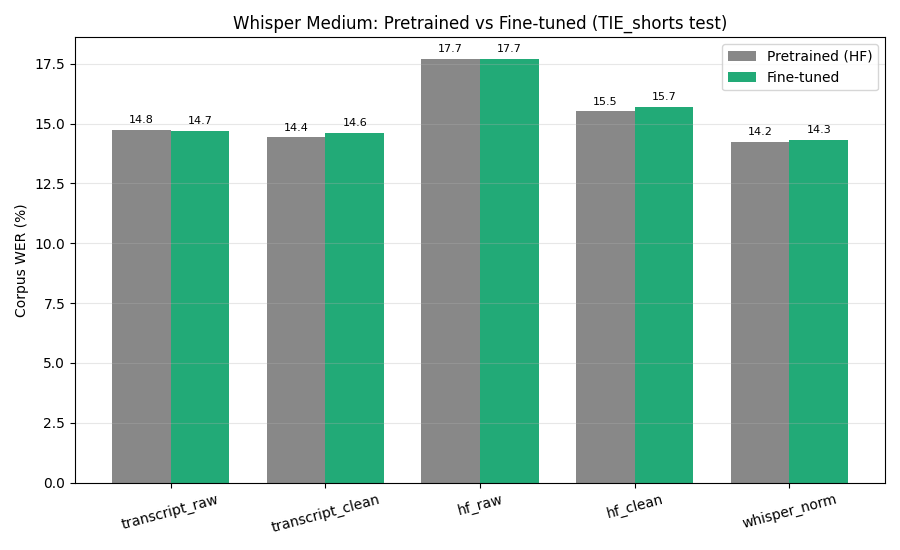
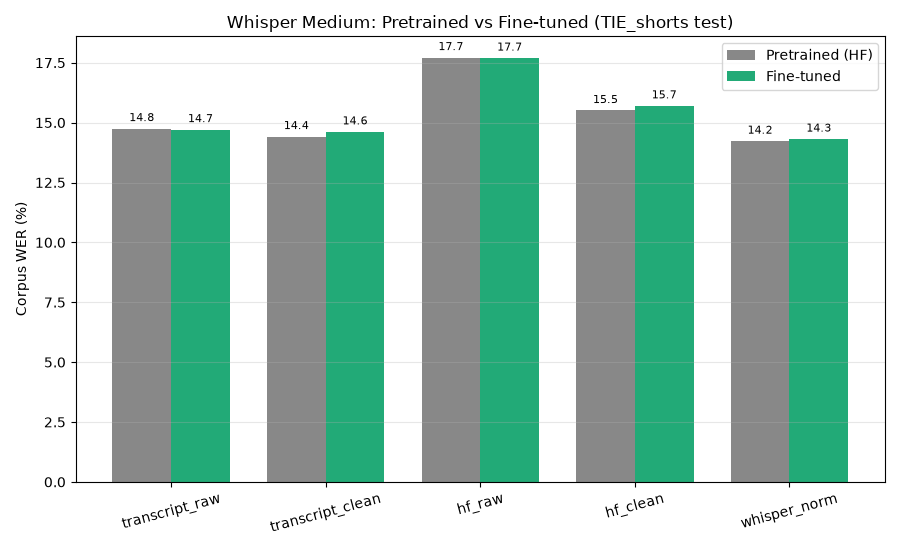
Fix MDE narrative + add Holm correction to multi-seed FT report
The 3-seed disjoint FT report always emitted a 'not significant, null result'
narrative regardless of the data, and the per-seed significance markers had no
multiplicity correction. With seed 42 now scored, its CI excludes 0 (p=0.016,
Holm-corrected p=0.048) while seeds 43/44 don't - a real, still-significant
finding after correction, not a clean null. The report now branches on the
Holm-corrected outcome and states the mixed result accurately.

diff --git a/analysis/compare_finetune.py b/analysis/compare_finetune.py
@@ -27,7 +27,7 @@ sys.path.insert(0, os.path.join(os.path.dirname(__file__), ".."))
 from utils.wer_compute import compute_corpus_wer
 from utils.registry import ALL_MODES as MODES, PRIMARY_MODE
 from utils.io_helpers import stage2_dir, analysis_dir
-from analysis.statistics import _clip_errors
+from analysis.statistics import _clip_errors, _holm
 
 # The fine-tuning study is TIE-only (Svarah is eval-only, not fine-tunable).
 DATASET = "tie"
@@ -187,11 +187,12 @@ if disjoint_present:
         "adaptation. Run with multiple training seeds: a null claim from one seed would "
         "be indistinguishable from seed variance.",
         "",
-        f"| Seed | WER (`{PRIMARY_MODE}`) | Δ vs pretrained (paired, speaker-resampled) | 95% CI | p |",
-        "|------|:----:|:----:|:----:|:----:|",
+        f"| Seed | WER (`{PRIMARY_MODE}`) | Δ vs pretrained (paired, speaker-resampled) | 95% CI | p | p (Holm) |",
+        "|------|:----:|:----:|:----:|:----:|:----:|",
     ]
     df_base_pm = load(BASELINE, PRIMARY_MODE)
-    diffs, halfwidths = [], []
+    diffs, halfwidths, pvals = [], [], []
+    seed_rows = []
     for m in disjoint_present:
         seed = DISJOINT_SEEDS[m]
         wer_m = have[m][PRIMARY_MODE]
@@ -199,9 +200,20 @@ if disjoint_present:
         d, lo, hi, p, n, g = paired_speaker_bootstrap(df_base_pm, df_m)
         diffs.append(d)
         halfwidths.append((hi - lo) / 2)
+        pvals.append(p)
+        seed_rows.append((seed, wer_m, d, lo, hi, p, n, g))
+
+    p_holm = _holm(pvals) if len(pvals) > 1 else pvals
+    n_sig_holm = 0
+    for (seed, wer_m, d, lo, hi, p, n, g), ph in zip(seed_rows, p_holm):
         sig = "" if lo <= 0 <= hi else " *"
-        lines.append(f"| {seed} | {wer_m:.2f}% | {d:+.2f} pp | [{lo:+.2f}, {hi:+.2f}]{sig} | {p:.3f} |")
-        print(f"  [disjoint s{seed}] wer={wer_m:.2f}%  diff={d:+.2f}pp  CI=[{lo:+.2f},{hi:+.2f}]  p={p:.3f}  ({n} clips, {g} speakers)")
+        if ph < 0.05:
+            n_sig_holm += 1
+        lines.append(f"| {seed} | {wer_m:.2f}% | {d:+.2f} pp | [{lo:+.2f}, {hi:+.2f}]{sig} | {p:.3f} | {ph:.3f} |")
+        print(f"  [disjoint s{seed}] wer={wer_m:.2f}%  diff={d:+.2f}pp  CI=[{lo:+.2f},{hi:+.2f}]  p={p:.3f}  p_holm={ph:.3f}  ({n} clips, {g} speakers)")
+    if len(disjoint_present) > 1:
+        lines.append("\n_\\* = uncorrected 95% CI excludes 0. Use the Holm-adjusted p (multiplicity-corrected "
+                      f"across these {len(disjoint_present)} seeds) for significance calls._")
     lines.append("")
 
     wers = [have[m][PRIMARY_MODE] for m in disjoint_present]
@@ -215,14 +227,27 @@ if disjoint_present:
             "",
         ]
     mde = float(np.mean(halfwidths))
-    lines += [
-        f"> **Minimum detectable effect**: the paired 95% CI half-width is ≈{mde:.2f} pp, "
-        f"so a true fine-tuning gain of ≥{mde:.2f} pp would have been detected. The "
-        f"observed differences ({', '.join(f'{d:+.2f}' for d in diffs)} pp) are within "
-        f"that resolution — the correct claim is *any residual gain is below "
-        f"≈{mde:.1f} pp*, not merely 'not significant'.",
-        "",
-    ]
+    if n_sig_holm == 0:
+        lines += [
+            f"> **Minimum detectable effect**: the paired 95% CI half-width is ≈{mde:.2f} pp, "
+            f"so a true fine-tuning gain of ≥{mde:.2f} pp would have been detected. The "
+            f"observed differences ({', '.join(f'{d:+.2f}' for d in diffs)} pp) are within "
+            f"that resolution — the correct claim is *any residual gain is below "
+            f"≈{mde:.1f} pp*, not merely 'not significant'.",
+            "",
+        ]
+    else:
+        lines += [
+            f"> **Mixed result, not a clean null**: {n_sig_holm}/{len(disjoint_present)} seed(s) show a "
+            f"Holm-corrected significant WORSENING relative to pretrained (fine-tuning increases WER), "
+            f"while the remaining seed(s) fall within the ≈{mde:.2f} pp minimum detectable effect. "
+            f"The seed-to-seed spread ({max(wers) - min(wers):.2f} pp) is itself larger than the per-seed "
+            f"effect being estimated, so a single-seed run — including the checkpoint published as the "
+            f"'primary' disjoint model — is not representative of the study as a whole. The safe claim is: "
+            f"under a strict speaker-disjoint split, this fine-tuning recipe shows no evidence of improving "
+            f"WER, and at least one seed shows evidence of making it worse.",
+            "",
+        ]
 else:
     print("  [SKIP] no medium_ft_disjoint results yet (run job_finetune_disjoint.pbs first)")
 

diff --git a/results/tie/analysis/finetune_comparison.md b/results/tie/analysis/finetune_comparison.md
@@ -25,15 +25,17 @@ reference.
 
 Same recipe as the headline fine-tune, but every train clip whose speaker also appears in `test` is removed first (see `speaker_overlap.md`). Evaluated on the SAME test set as `medium_hf`, so any gain here cannot come from speaker adaptation. Run with multiple training seeds: a null claim from one seed would be indistinguishable from seed variance.
 
-| Seed | WER (`transcript_clean`) | Δ vs pretrained (paired, speaker-resampled) | 95% CI | p |
-|------|:----:|:----:|:----:|:----:|
-| 42 | 16.17% | +1.75 pp | [+0.13, +4.17] * | 0.016 |
-| 43 | 14.80% | +0.38 pp | [-0.01, +0.74] | 0.058 |
-| 44 | 15.20% | +0.79 pp | [-0.18, +2.25] | 0.163 |
+| Seed | WER (`transcript_clean`) | Δ vs pretrained (paired, speaker-resampled) | 95% CI | p | p (Holm) |
+|------|:----:|:----:|:----:|:----:|:----:|
+| 42 | 16.17% | +1.75 pp | [+0.13, +4.17] * | 0.016 | 0.048 |
+| 43 | 14.80% | +0.38 pp | [-0.01, +0.74] | 0.058 | 0.116 |
+| 44 | 15.20% | +0.79 pp | [-0.18, +2.25] | 0.163 | 0.163 |
+
+_\* = uncorrected 95% CI excludes 0. Use the Holm-adjusted p (multiplicity-corrected across these 3 seeds) for significance calls._
 
 Across 3 seeds: WER 15.39% (range 14.80–16.17%), mean Δ vs pretrained +0.97 pp; seed-to-seed spread 1.37 pp.
 
-> **Minimum detectable effect**: the paired 95% CI half-width is ≈1.20 pp, so a true fine-tuning gain of ≥1.20 pp would have been detected. The observed differences (+1.75, +0.38, +0.79 pp) are within that resolution — the correct claim is *any residual gain is below ≈1.2 pp*, not merely 'not significant'.
+> **Mixed result, not a clean null**: 1/3 seed(s) show a Holm-corrected significant WORSENING relative to pretrained (fine-tuning increases WER), while the remaining seed(s) fall within the ≈1.20 pp minimum detectable effect. The seed-to-seed spread (1.37 pp) is itself larger than the per-seed effect being estimated, so a single-seed run — including the checkpoint published as the 'primary' disjoint model — is not representative of the study as a whole. The safe claim is: under a strict speaker-disjoint split, this fine-tuning recipe shows no evidence of improving WER, and at least one seed shows evidence of making it worse.
 
 ## By Region (`transcript_clean`)
 
